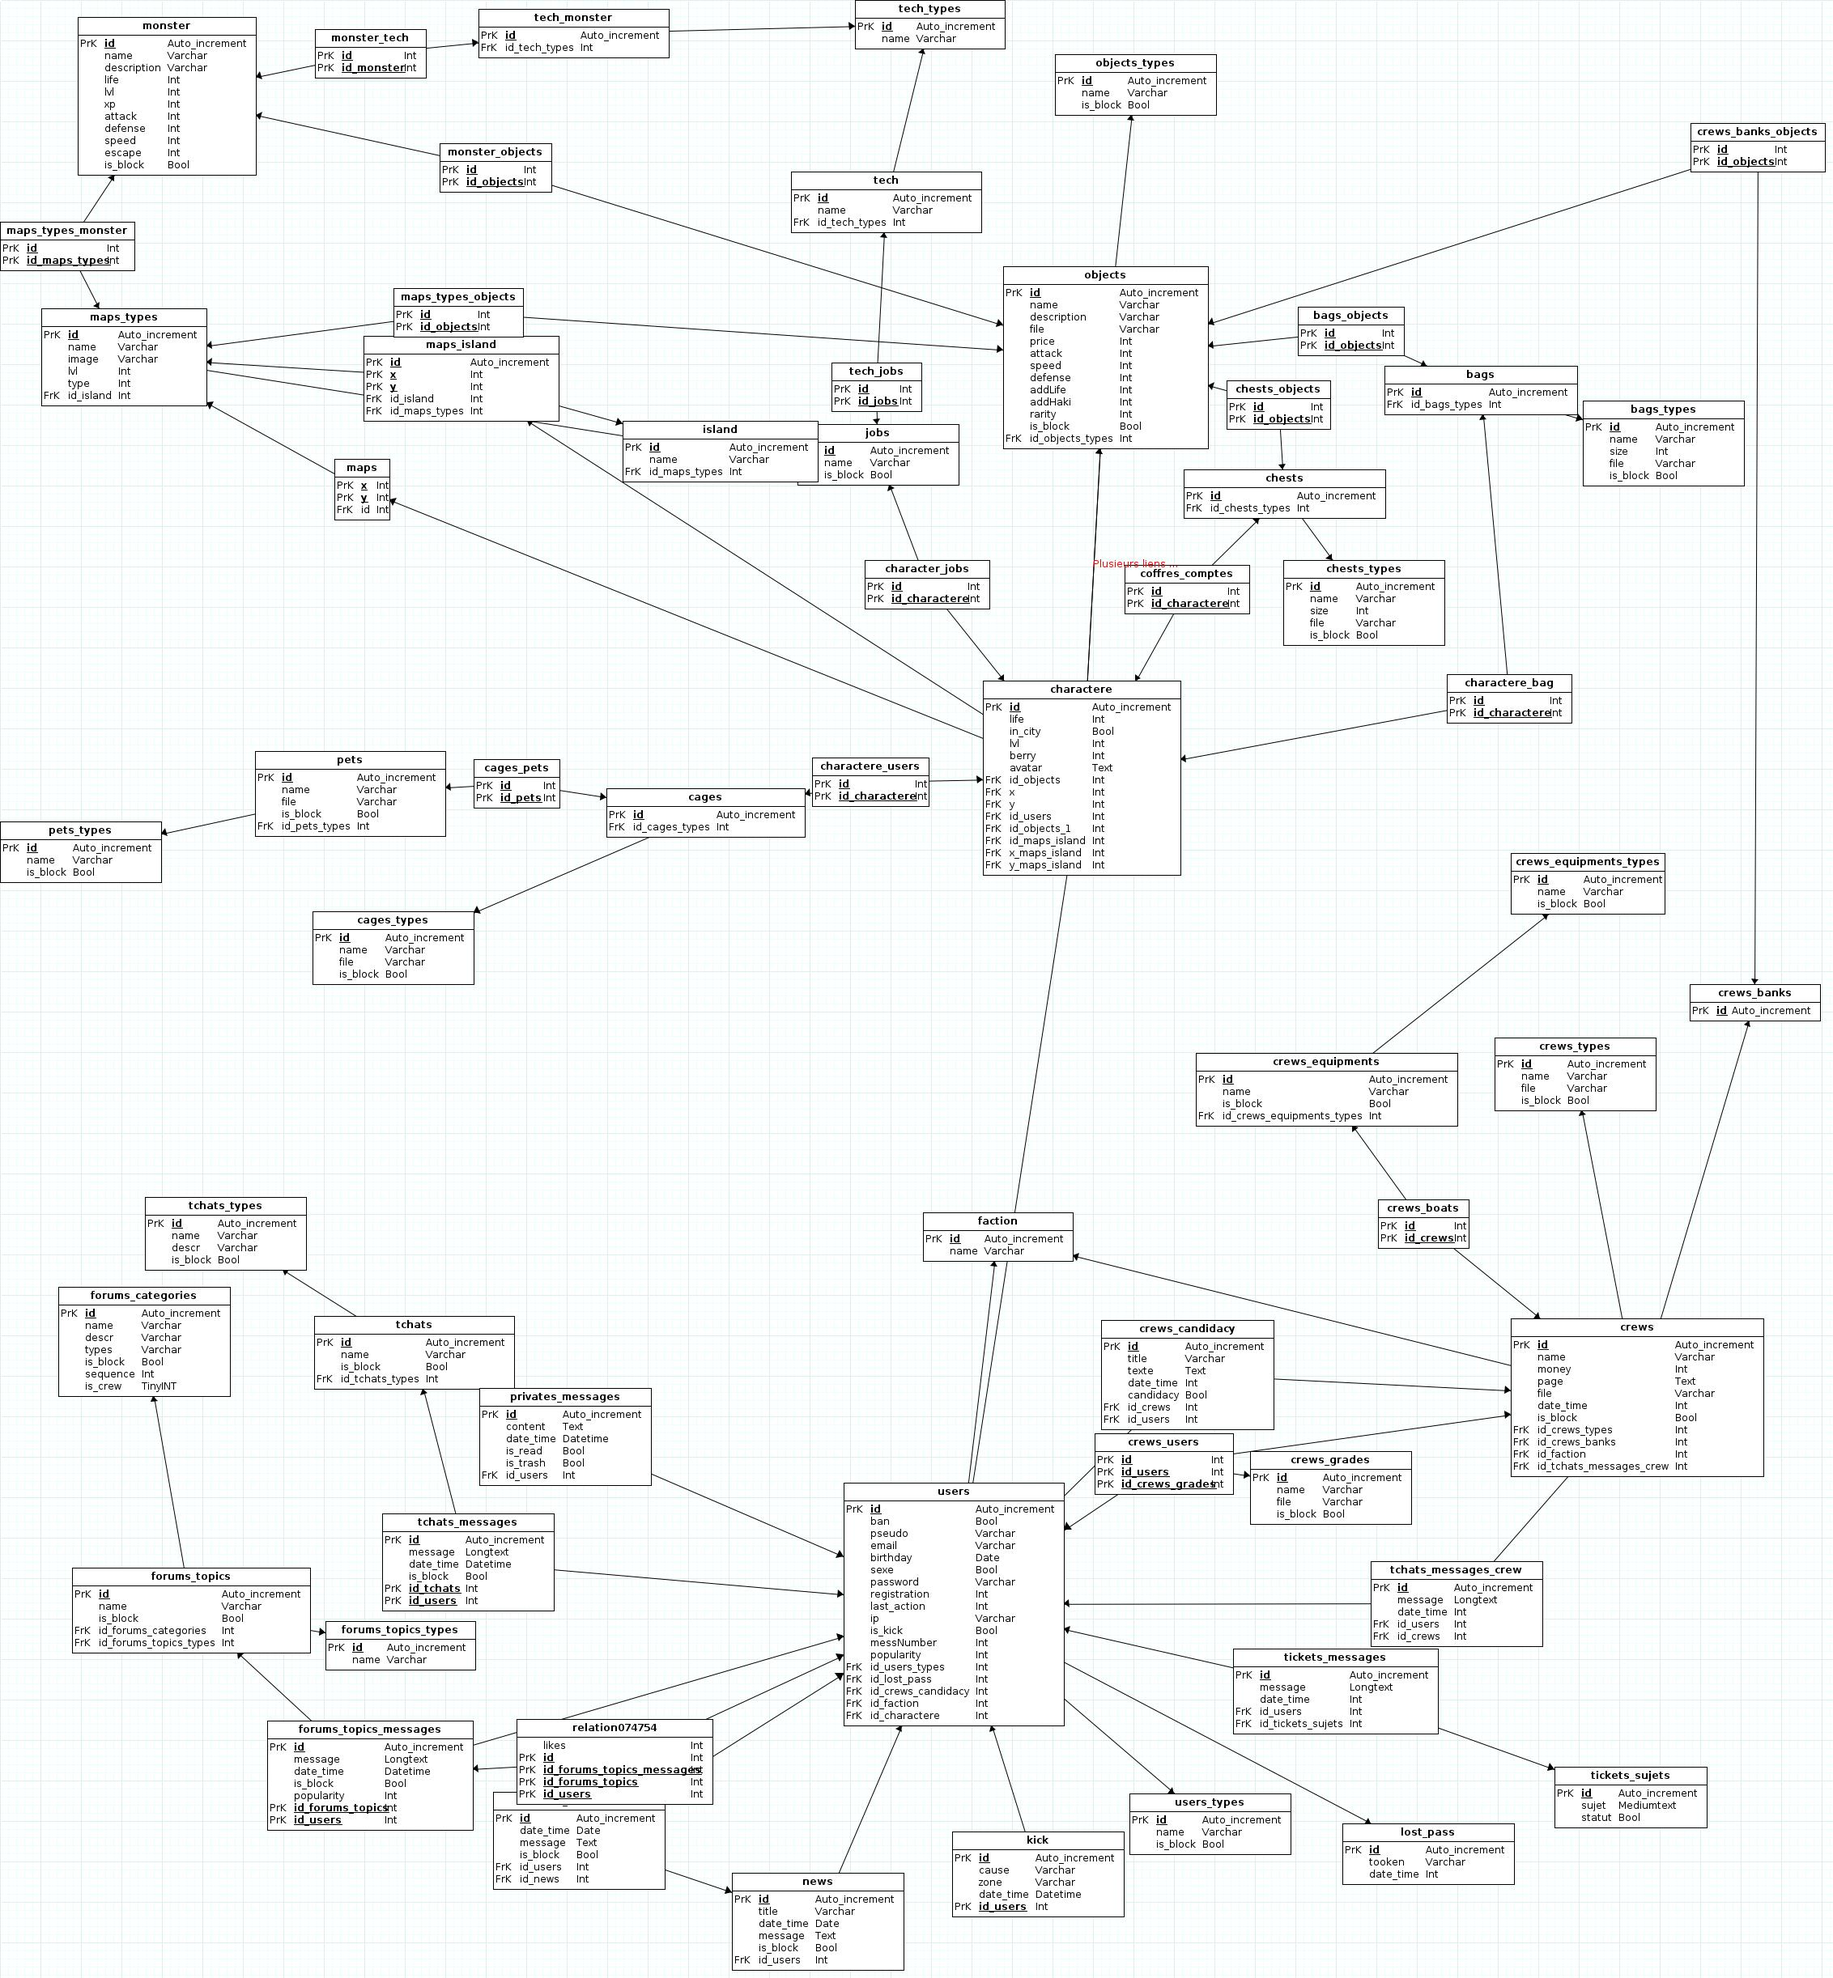
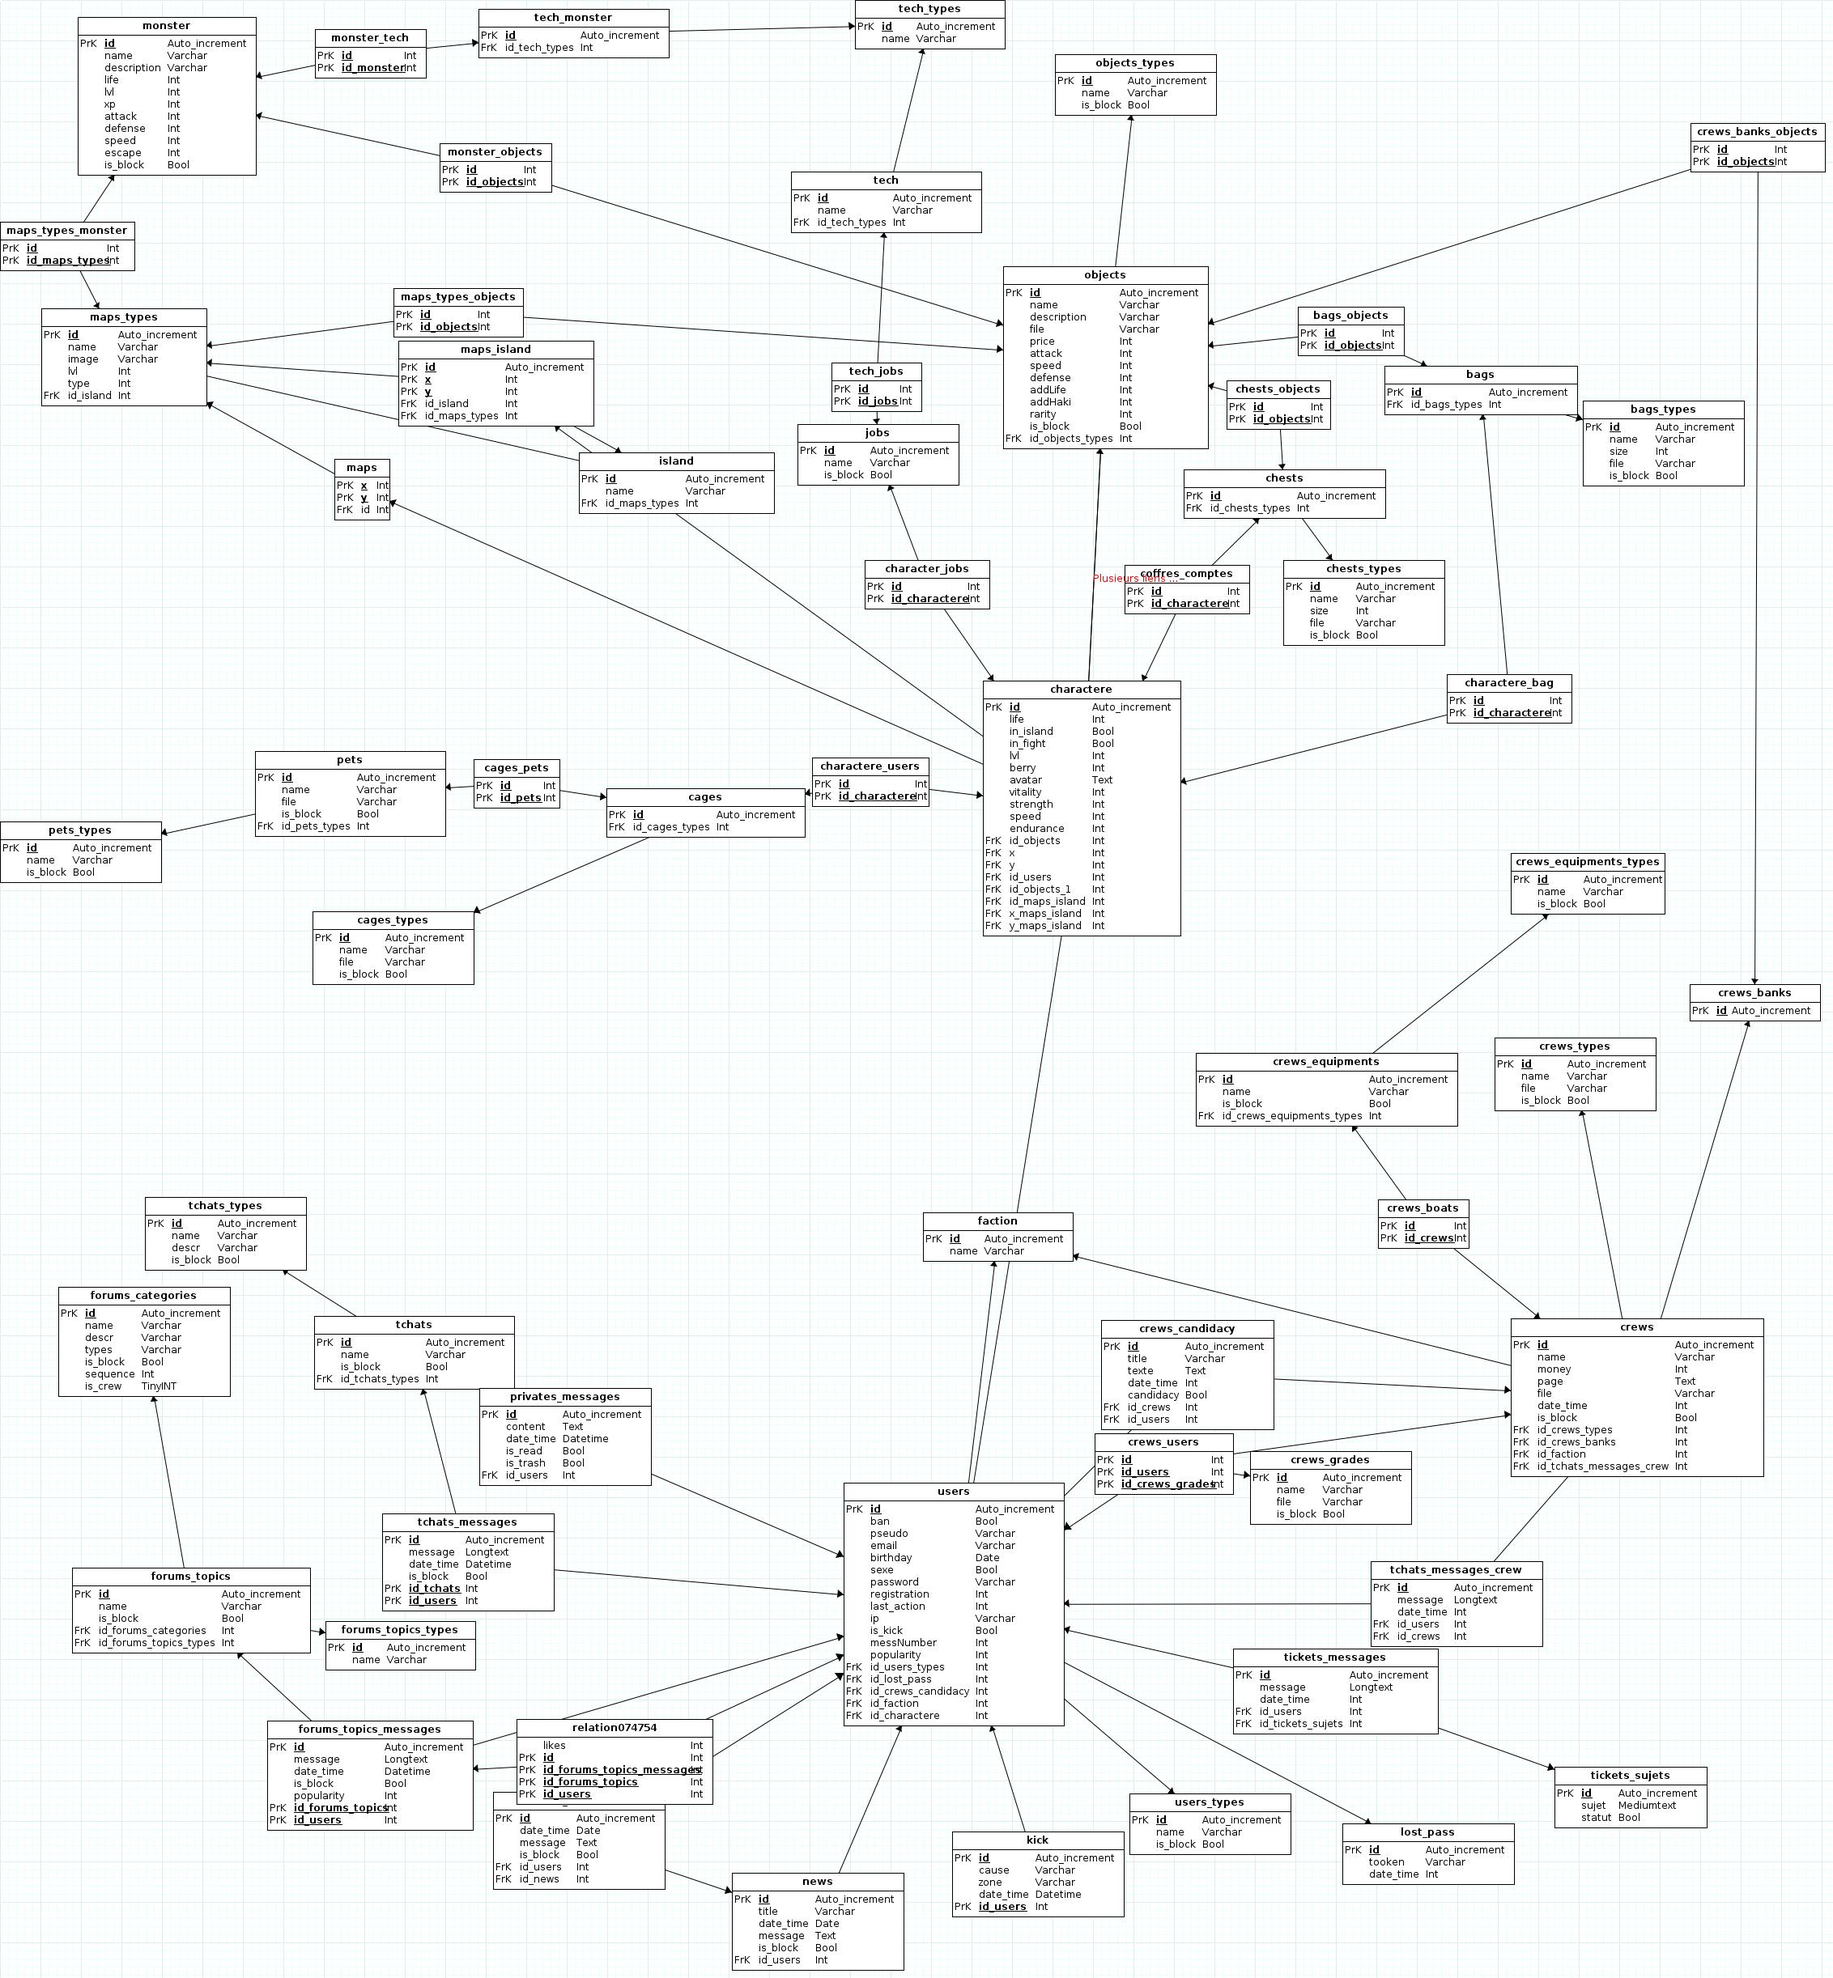
Librairie Arme, armure :)

diff --git a/application/libraries/Weapon.php b/application/libraries/Weapon.php
@@ -1,0 +1,107 @@
+<?php
+if ( ! defined('BASEPATH')) exit('No direct script access allowed');
+
+class Weapon {
+    private $id,
+            $name,
+            $attack = 5,
+            $speed,
+            $defense;
+
+    public function __construct(){
+        $this->CI =& get_instance();
+    }
+
+    public function hydrate(array $donnees)
+    {
+        foreach($donnees as $key => $value)
+        {
+            $method = 'set'.ucfirst($key);
+            if(method_exists($this, $method))
+            {
+                $this->$method($value);
+            }
+        }
+    }
+
+    /**
+     * @return mixed
+     */
+    public function getId()
+    {
+        return $this->id;
+    }
+
+    /**
+     * @param mixed $id
+     */
+    public function setId($id)
+    {
+        $this->id = $id;
+    }
+
+    /**
+     * @return mixed
+     */
+    public function getName()
+    {
+        return $this->name;
+    }
+
+    /**
+     * @param mixed $name
+     */
+    public function setName($name)
+    {
+        $this->name = $name;
+    }
+
+    /**
+     * @return mixed
+     */
+    public function getAttack()
+    {
+        return $this->attack * ($this->CI->character->getStrength() + 3)/3;
+    }
+
+    /**
+     * @param mixed $attack
+     */
+    public function setAttack($attack)
+    {
+        $this->attack = $attack;
+    }
+
+    /**
+     * @return mixed
+     */
+    public function getSpeed()
+    {
+        return $this->speed;
+    }
+
+    /**
+     * @param mixed $speed
+     */
+    public function setSpeed($speed)
+    {
+        $this->speed = $speed;
+    }
+
+    /**
+     * @return mixed
+     */
+    public function getDefense()
+    {
+        return $this->defense;
+    }
+
+    /**
+     * @param mixed $defense
+     */
+    public function setDefense($defense)
+    {
+        $this->defense = $defense;
+    }
+
+}

diff --git a/application/libraries/Armor.php b/application/libraries/Armor.php
@@ -1,0 +1,106 @@
+<?php
+if ( ! defined('BASEPATH')) exit('No direct script access allowed');
+
+class Armor {
+    private $id,
+        $name,
+        $attack,
+        $speed,
+        $defense;
+
+    public function __construct(){
+        $this->CI =& get_instance();
+    }
+
+    public function hydrate(array $donnees)
+    {
+        foreach($donnees as $key => $value)
+        {
+            $method = 'set'.ucfirst($key);
+            if(method_exists($this, $method))
+            {
+                $this->$method($value);
+            }
+        }
+    }
+
+    /**
+     * @return mixed
+     */
+    public function getId()
+    {
+        return $this->id;
+    }
+
+    /**
+     * @param mixed $id
+     */
+    public function setId($id)
+    {
+        $this->id = $id;
+    }
+
+    /**
+     * @return mixed
+     */
+    public function getName()
+    {
+        return $this->name;
+    }
+
+    /**
+     * @param mixed $name
+     */
+    public function setName($name)
+    {
+        $this->name = $name;
+    }
+
+    /**
+     * @return mixed
+     */
+    public function getAttack()
+    {
+        return $this->attack;
+    }
+
+    /**
+     * @param mixed $attack
+     */
+    public function setAttack($attack)
+    {
+        $this->attack = $attack;
+    }
+
+    /**
+     * @return mixed
+     */
+    public function getSpeed()
+    {
+        return $this->speed;
+    }
+
+    /**
+     * @param mixed $speed
+     */
+    public function setSpeed($speed)
+    {
+        $this->speed = $speed;
+    }
+
+    /**
+     * @return mixed
+     */
+    public function getDefense()
+    {
+        return $this->defense;
+    }
+
+    /**
+     * @param mixed $defense
+     */
+    public function setDefense($defense)
+    {
+        $this->defense = $defense;
+    }
+}

diff --git a/application/libraries/Character.php b/application/libraries/Character.php
@@ -16,12 +16,16 @@ if ( ! defined('BASEPATH')) exit('No direct script access allowed');
 class Character
 {
     protected $id,
-              $positionCity,
               $inIsland,
+              $inFight,
               $idIsland,
               $lvl,
               $berry,
               $avatar,
+              $vitality,
+              $strength,
+              $speed,
+              $endurance,
               $weapon,
 			  $armor,
               $x,
@@ -68,6 +72,10 @@ class Character
             return $this->yMapsIsland + $this->vision;
 		return $this->y + $this->vision;
 	}
+
+    public function getMaxLife(){
+        return ($this->vitality * 5) + 10;
+    }
 	
 	/*
 	 *Getter
@@ -95,6 +103,18 @@ class Character
     }
     public function getAvatar() {
         return $this->avatar;
+    }
+    public function getVitality() {
+        return $this->vitality;
+    }
+    public function getStrength(){
+        return $this->strength;
+    }
+    public function getSpeed() {
+        return $this->speed;
+    }
+    public function getEndurance() {
+        return $this->endurance;
     }
     public function getWeapon() {
         return $this->weapon;
@@ -149,6 +169,18 @@ class Character
     }
     public function setAvatar($avatar){
         $this->avatar = $avatar;
+    }
+    public function setVitality($vitality) {
+        $this->vitality = $vitality;
+    }
+    public function setStrength($strength) {
+        $this->strength = $strength;
+    }
+    public function setSpeed($speed) {
+        $this->speed = $speed;
+    }
+    public function setEndurance($endurance) {
+        $this->endurance = $endurance;
     }
     public function setWeapon($id){
         $this->weapon = $id;

diff --git a/application/models/Users_model.php b/application/models/Users_model.php
@@ -15,8 +15,8 @@ class Users_model extends CI_Model {
 	$this->user->hydrate($user[0]);
 	$this->user->setAuthenticated(true);
 	
-	$query = $this->db->query("SELECT position_city AS positionCity, in_island AS inIsland, lvl, berry, id_objects AS weapon, x, y, id_objects_1 AS armor,
-									  x_maps_island AS xMapsIsland, y_maps_island AS yMapsIsland, id_maps_island AS idIsland
+	$query = $this->db->query("SELECT life, in_island AS inIsland, in_fight AS inFight, lvl, berry, id_objects AS weapon, x, y, id_objects_1 AS armor,
+									  x_maps_island AS xMapsIsland, y_maps_island AS yMapsIsland, id_maps_island AS idIsland, vitality, strength, speed, endurance
 							  FROM charactere
 							  JOIN users ON users.id_charactere = charactere.id
 							  WHERE users.id = ?", array($this->user->getId()));
